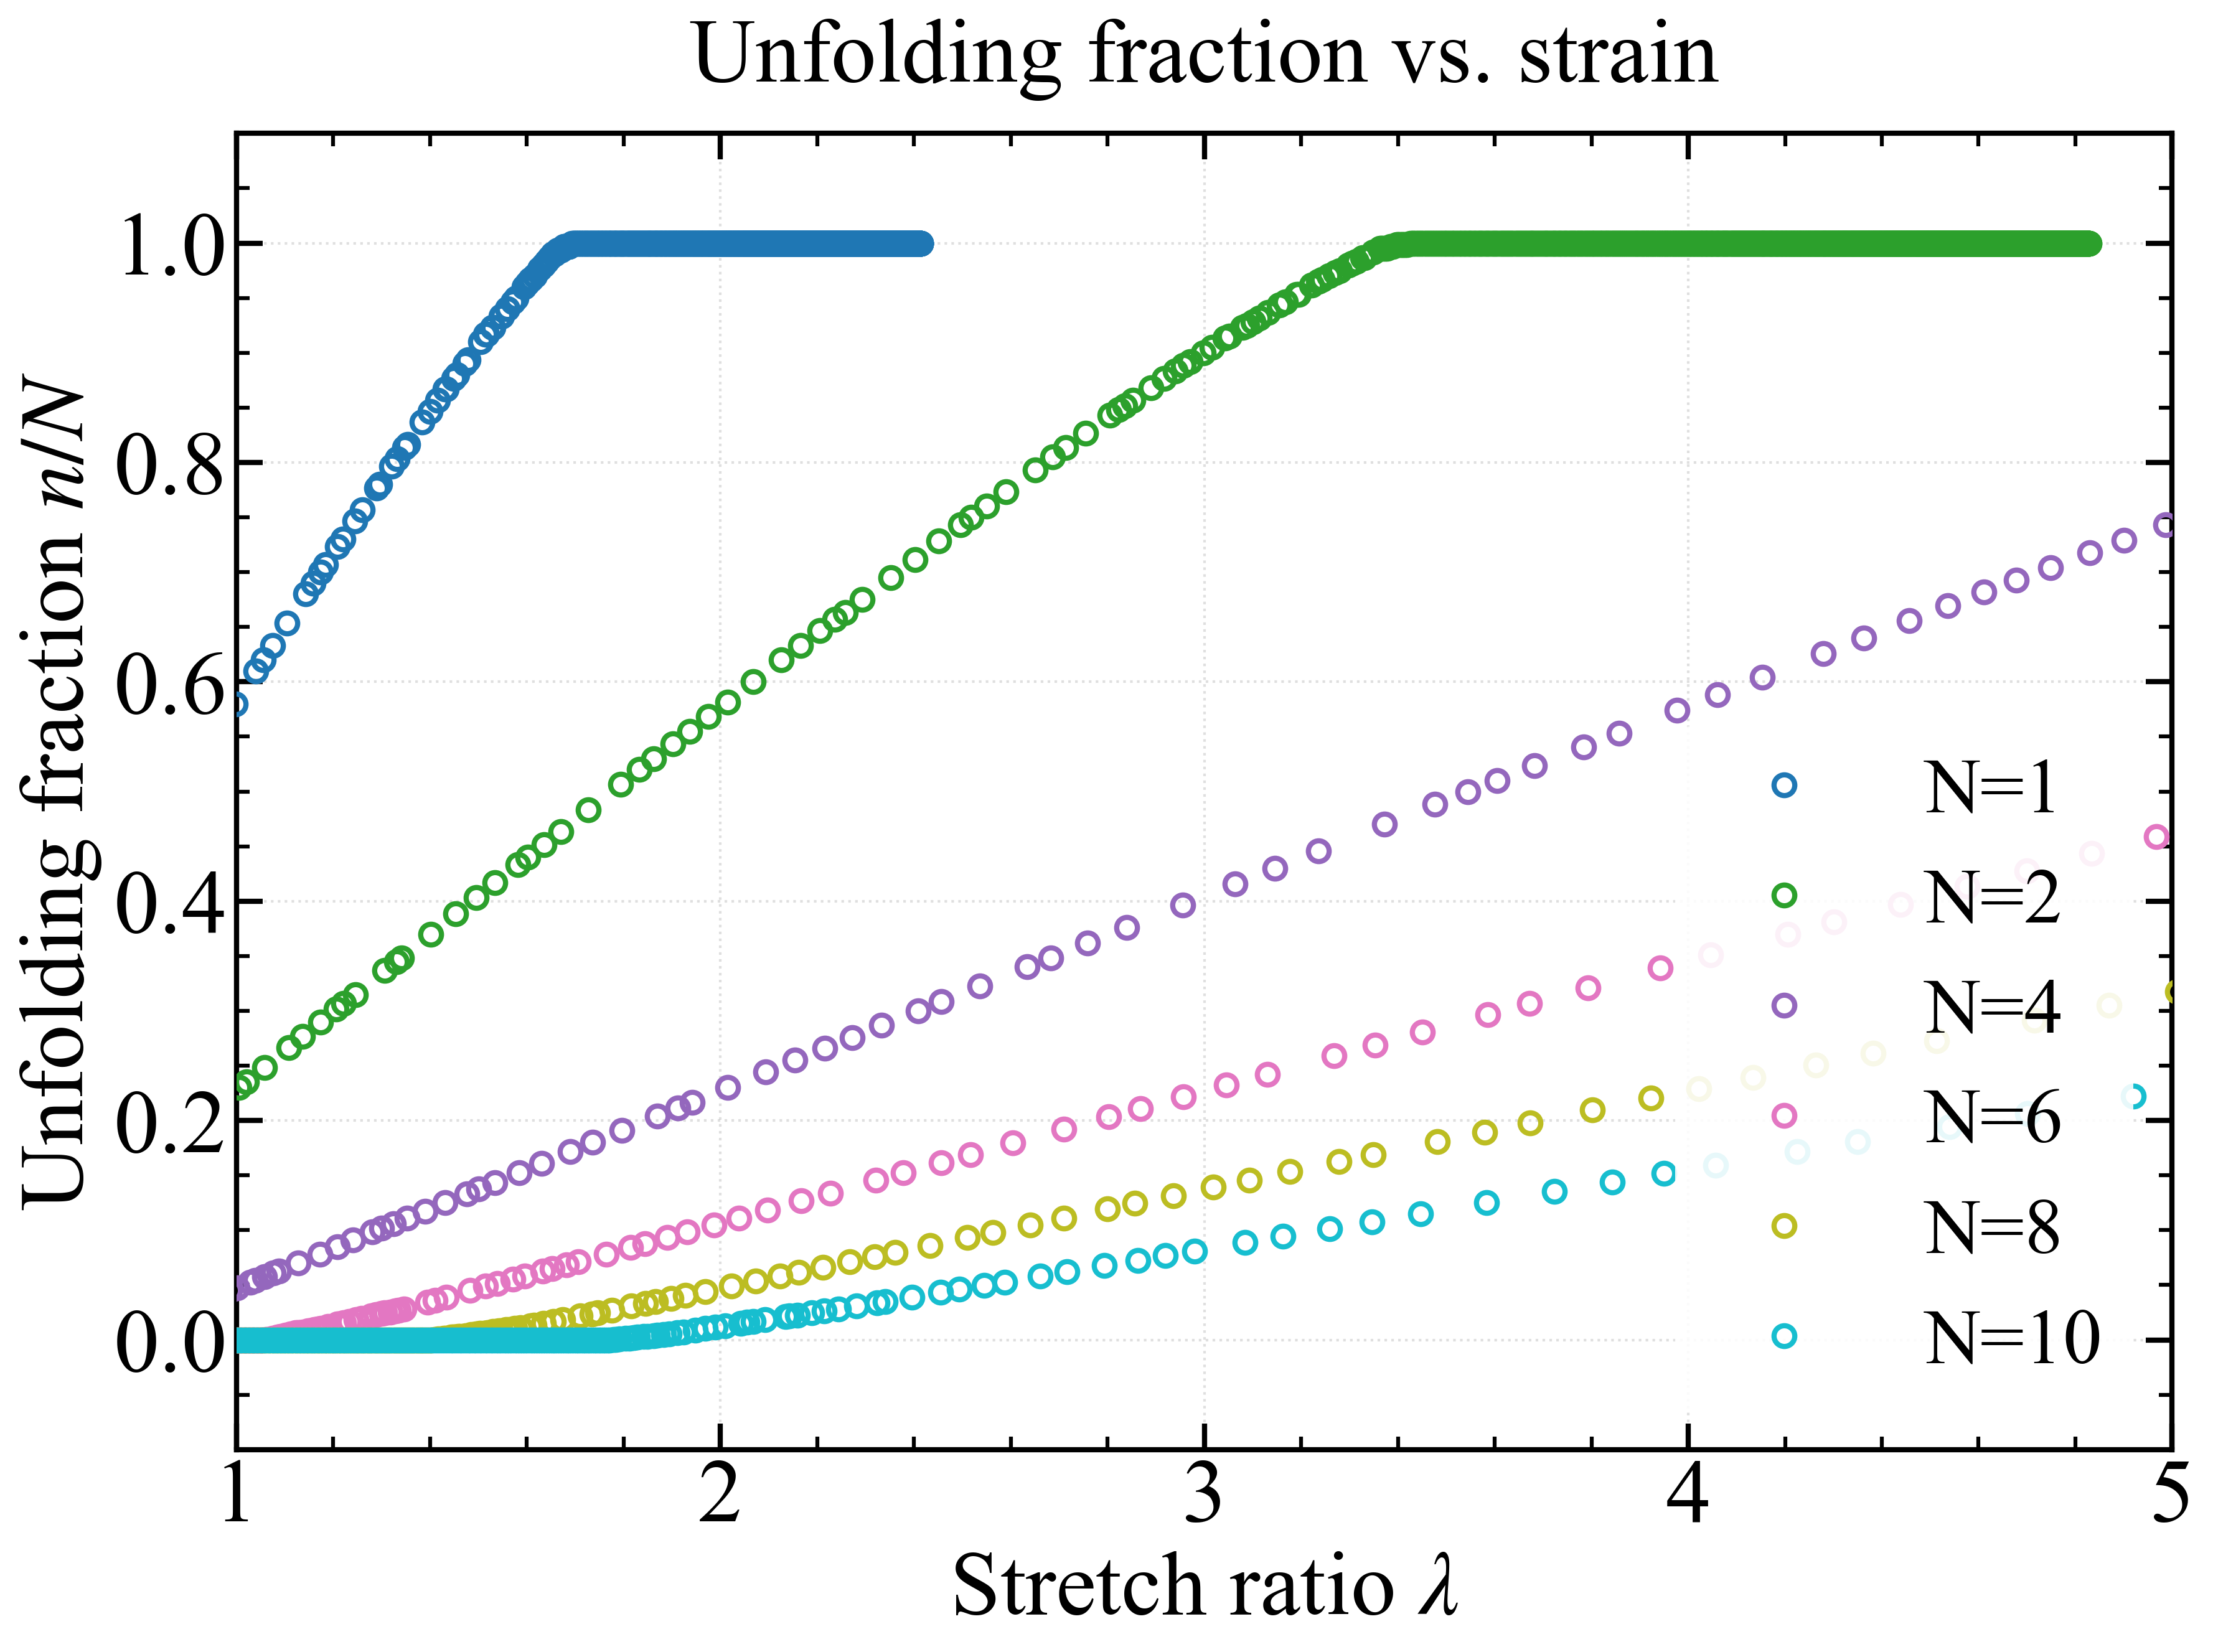
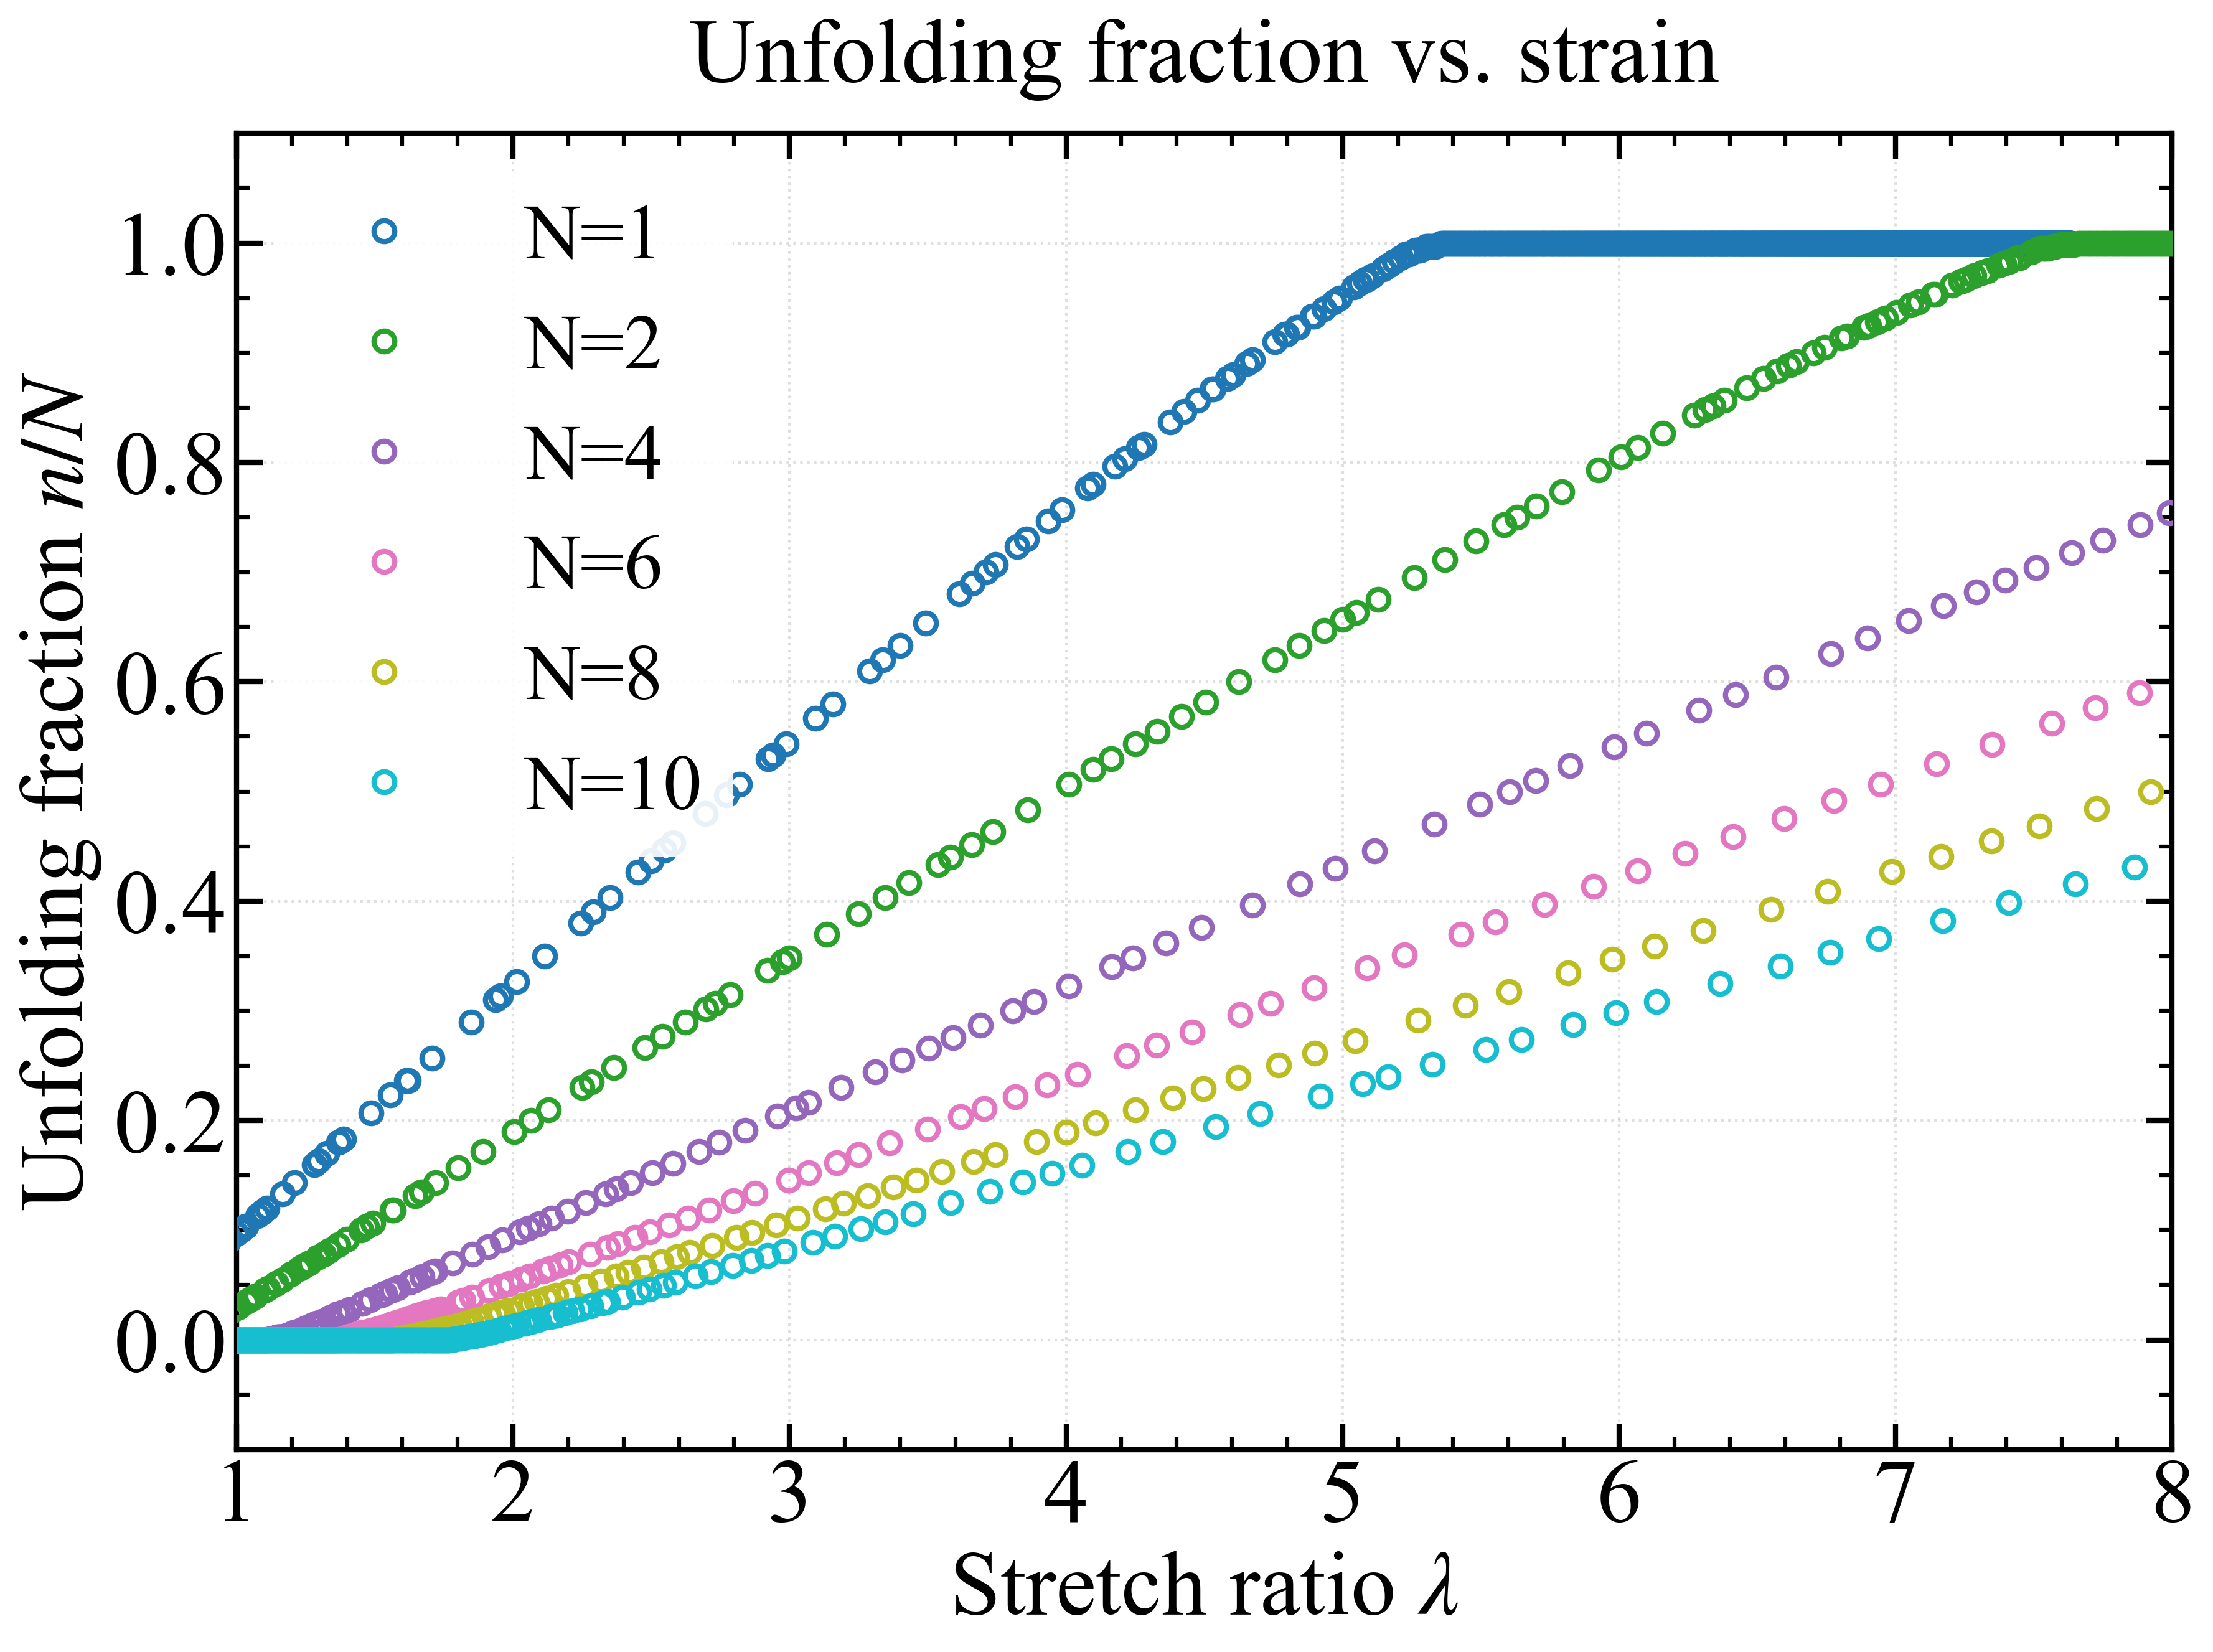
New changes

diff --git a/GB1_results/Networks_results/R0_N0.5/Stress_compare.py b/GB1_results/Networks_results/R0_N0.5/Stress_compare.py
@@ -92,7 +92,7 @@ N_val = [1.0, 2.0, 4.0, 6.0, 8.0, 10.0]   # domain 的数量
 M = 300
 k1 = 6.5
 k2 = 1.48
-kR = 3.0           # 初始首末端距离 R0 = kR * N**0.5
+kR = 2.68           # 初始首末端距离 R0 = kR * N**0.5
 lambda_max = 30.0  # 最大伸长比
 Stress_max = 40.0  # 最大应力值
 
@@ -109,6 +109,43 @@ def MSforce(x):
                      np.inf)
     return force
 
+def x_theory(lam, N):
+    """
+    新增函数：计算图1中的 x(lambda) 解析解
+    根据图1的解析公式计算相对伸长率 x(lambda)。
+    公式推导：x(λ) = (-B + sqrt(B^2 + 4*A*x0*λ)) / (2*A)
+    参数说明：
+        lam: 拉伸比 λ (可以是标量或 numpy 数组)
+        N  : 链段数量 / domain 数量
+    """
+    # 1. 使用牛顿迭代法求解 xc，满足 fhat(xc) = k2 = 1.48
+    xc = 0.5  # 初始猜测值
+    for _ in range(100):
+        f_val = 1/(4*(1-xc)**2) - 1/4 + xc - k2
+        f_prime_val = 1/(2*(1-xc)**3) + 1
+        xc_new = xc - f_val / f_prime_val
+        if abs(xc_new - xc) < 1e-12:
+            xc = xc_new
+            break
+        xc = xc_new
+
+    # 2. 计算在 xc 处的导数 f'(xc)
+    f_prime_xc = 1/(2*(1-xc)**3) + 1
+    
+    # 3. 计算中间参数 A, B, x0
+    # 图1中的 μ，物理上对应代码中的 alpha（最大展开长度 / 折叠长度）
+    A = (alpha - 1) / 2 * k1 * f_prime_xc
+    B = (alpha + 1) / 2 - A * xc
+    
+    # 根据代码，R0 = kR * N**0.5，得出 x0 = R0 / (N * xi_f)
+    x0 = kR / (np.sqrt(N) * xi_f) 
+    
+    # 4. 套用一元二次方程求根公式计算 x(lambda)
+    inside_sqrt = B**2 + 4 * A * x0 * lam
+    x_lambda_val = (-B + np.sqrt(inside_sqrt)) / (2 * A)
+    
+    return x_lambda_val
+
 def PlotStressMS(R0, N=None):
     """
     使用Marko-Siggia模型绘制理论曲线
@@ -124,7 +161,7 @@ def PlotStressMS(R0, N=None):
         L0 = xi_f * alpha
         r_MS = x_MS * L0
         # 标记一下，后面不参与 legend 中的 N 标签
-    lambda_MS, sigma_MS = StressOptimization(R0, N if N is not None else 1.0, r_MS, f_MS)
+    lambda_MS, sigma_MS = StressOptimization(R0, r_MS, f_MS)
     return lambda_MS, sigma_MS
 
 def load_average_curve_data(file_path):
@@ -144,7 +181,7 @@ def load_average_curve_data(file_path):
     n_val = data.iloc[:, 2].values
     return f_val, r_val, n_val
 
-def StressOptimization(R0, N, r_val, f_val):
+def StressOptimization(R0, r_val, f_val):
     Re = R0
     r_val = np.asarray(r_val)
     f_val = np.asarray(f_val)
@@ -181,10 +218,10 @@ def create_visualization(save_dir=None):
     ax1.set_yscale('log')
 
     for idx, N in enumerate(N_val):
+        R0 = kR * N**0.5
         filepath = f"/home/tyt/project/protein_gel/GB1_results/Multi_chains/N_{int(N)}_M_{M}_test_results/average_curves.csv"
         f_val, r_val, n_val = load_average_curve_data(filepath)
-        R0 = kR * N**0.5
-        lambda_sim, sigma_sim = StressOptimization(R0, N, r_val, f_val)
+        lambda_sim, sigma_sim = StressOptimization(R0, r_val, f_val)
 
         # 绘制模拟数据点：空心圆
         ax1.plot(lambda_sim, sigma_sim, 'o',
@@ -200,7 +237,7 @@ def create_visualization(save_dir=None):
     # 标签与标题
     ax1.set_xlabel('Stretch ratio $\\lambda$', fontsize=label_fontsize)
     ax1.set_ylabel('Stress $\\sigma/\\rho k_B T$', fontsize=label_fontsize)
-    ax1.set_title(f'Constitutive curve: $R_0={kR:.1f} \sqrt{{N}}$', 
+    ax1.set_title(f'Constitutive curve: $R_0={kR:.2f} \sqrt{{N}}$', 
                   fontsize=title_fontsize, pad=20)
 
     # 网格
@@ -248,17 +285,21 @@ def create_visualization(save_dir=None):
 
     fig2, ax2 = plt.subplots(1, 1, figsize=(12, 9))
     for idx, N in enumerate(N_val):
+        R0 = kR * N**0.5
         filepath = f"/home/tyt/project/protein_gel/GB1_results/Multi_chains/N_{int(N)}_M_{M}_test_results/average_curves.csv"
         f_val, r_val, n_val = load_average_curve_data(filepath)
         Lc_val = (N - n_val) * xi_f + n_val* alpha * xi_f
-        ax2.plot(r_val/R0, Lc_val, 'o', color=colors[idx], markerfacecolor='none',
+        x_val = r_val / Lc_val
+        x_val_theo = x_theory(r_val / R0, N)
+        ax2.plot(r_val/R0, x_val, 'o', color=colors[idx], markerfacecolor='none',
                 markeredgewidth=2, markersize=8,
                 label=f'N={int(N)}', zorder=4)
-
+        ax2.plot(r_val/R0, x_val_theo, '-', color='black', linewidth=2, zorder=5)
+        
         # 标签与标题
     ax2.set_xlabel('Stretch ratio $\lambda$', fontsize=label_fontsize)
-    ax2.set_ylabel('Contour length $L_c$', fontsize=label_fontsize)
-    ax2.set_title(f'Contour length vs. strain', 
+    ax2.set_ylabel('End-to-end factor $x$', fontsize=label_fontsize)
+    ax2.set_title(f'End-to-end factor vs. strain', 
                   fontsize=title_fontsize, pad=20)
 
     # 网格
@@ -274,8 +315,8 @@ def create_visualization(save_dir=None):
               fontsize=legend_fontsize, framealpha=0.9,
               edgecolor='none', loc='best')
 
-    ax2.set_xlim(1.0, 13.0)
-    ax2.set_ylim(0.0, 120.0)
+    ax2.set_xlim(1.0, 16.0)
+    ax2.set_ylim(0.5, 0.6)
 
     ax2.tick_params(axis='both', which='major',
                     direction=xtick_direction,
@@ -299,7 +340,7 @@ def create_visualization(save_dir=None):
 
     plt.tight_layout()
     if save_dir:
-        save_path2 = os.path.join(save_dir, f'k_R={kR}_Lc_compare.png')
+        save_path2 = os.path.join(save_dir, f'k_R={kR}_x_compare.png')
         fig2.savefig(save_path2, dpi=savefig_dpi, bbox_inches='tight',
                      facecolor='white', edgecolor='none')
         print(f"本构曲线已保存至: {save_path2}")
@@ -307,6 +348,7 @@ def create_visualization(save_dir=None):
 
     fig3, ax3 = plt.subplots(1, 1, figsize=(12, 9))
     for idx, N in enumerate(N_val):
+        R0 = kR * N**0.5
         filepath = f"/home/tyt/project/protein_gel/GB1_results/Multi_chains/N_{int(N)}_M_{M}_test_results/average_curves.csv"
         f_val, r_val, n_val = load_average_curve_data(filepath)
         lam_val = r_val / R0
@@ -334,7 +376,7 @@ def create_visualization(save_dir=None):
               fontsize=legend_fontsize, framealpha=0.9,
               edgecolor='none', loc='best')
 
-    ax3.set_xlim(1.0, 5.0)
+    ax3.set_xlim(1.0, 8.0)
     ax3.set_ylim(-0.1, 1.1)
 
     ax3.tick_params(axis='both', which='major',